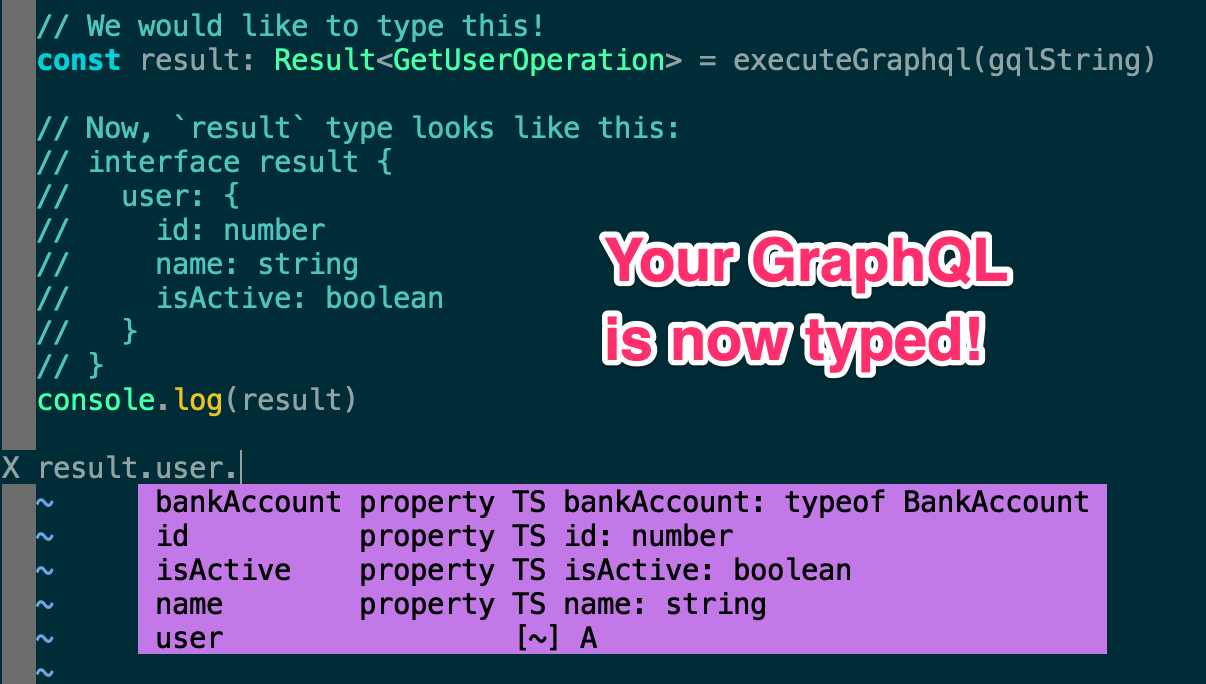
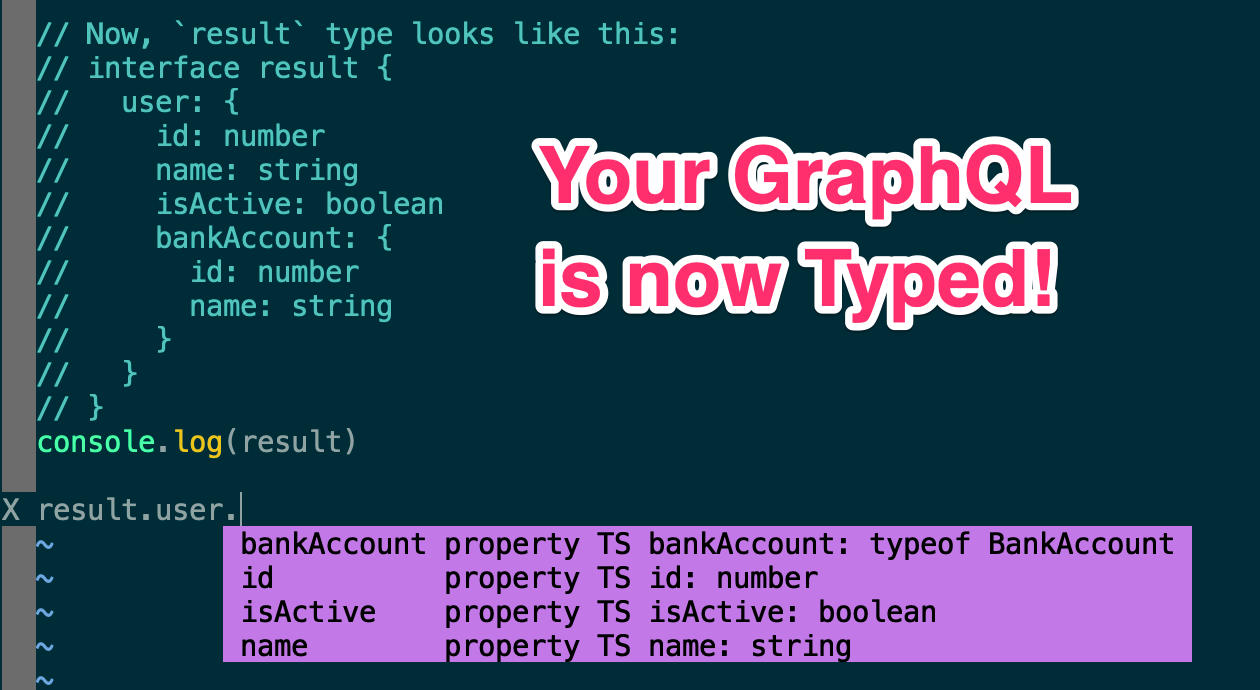
replace screenshot

diff --git a/typeTest.ts b/typeTest.ts
@@ -58,6 +58,10 @@ const result: Result<GetUserOperation> = executeGraphql(gqlString)
 //     id: number
 //     name: string
 //     isActive: boolean
+//     bankAccount: {
+//       id: number
+//       name: string
+//     }
 //   }
 // }
 console.log(result)

diff --git a/README.md b/README.md
@@ -62,6 +62,10 @@ const result: Result<GetUserOperation> = executeGraphql(gqlString)
 //     id: number
 //     name: string
 //     isActive: boolean
+//     bankAccount: {
+//       id: number
+//       name: string
+//     }
 //   }
 // }
 ```
